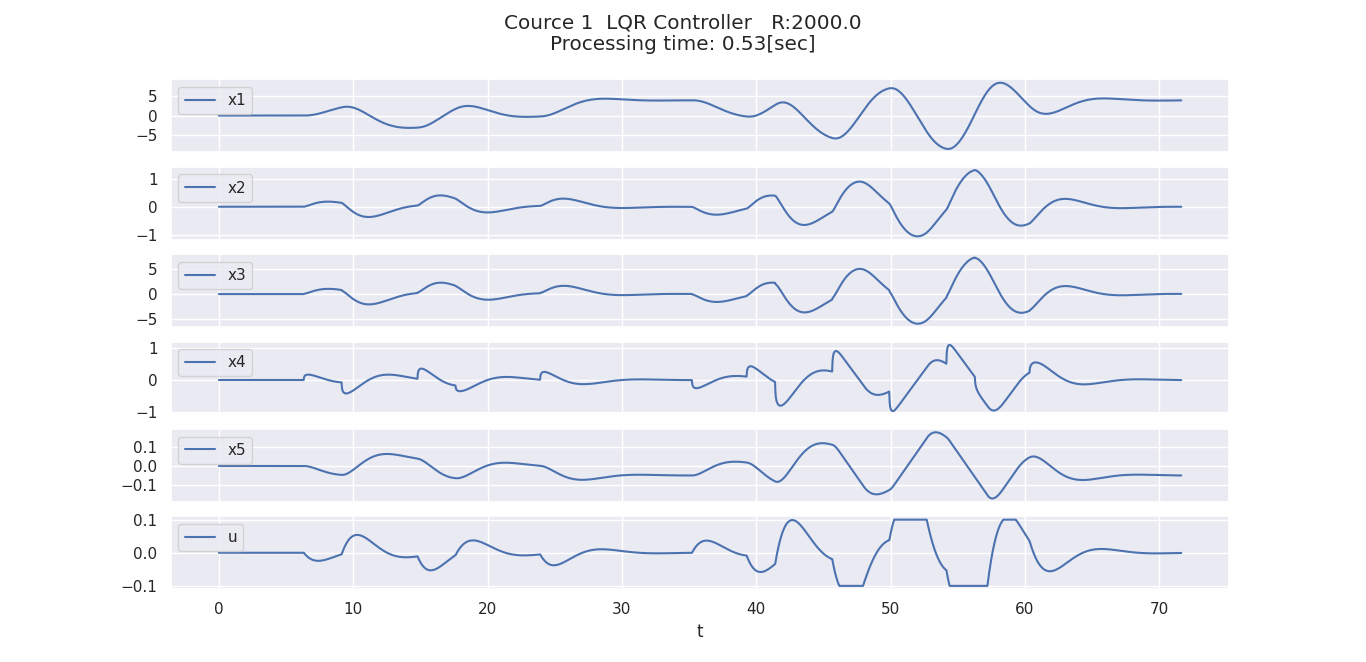
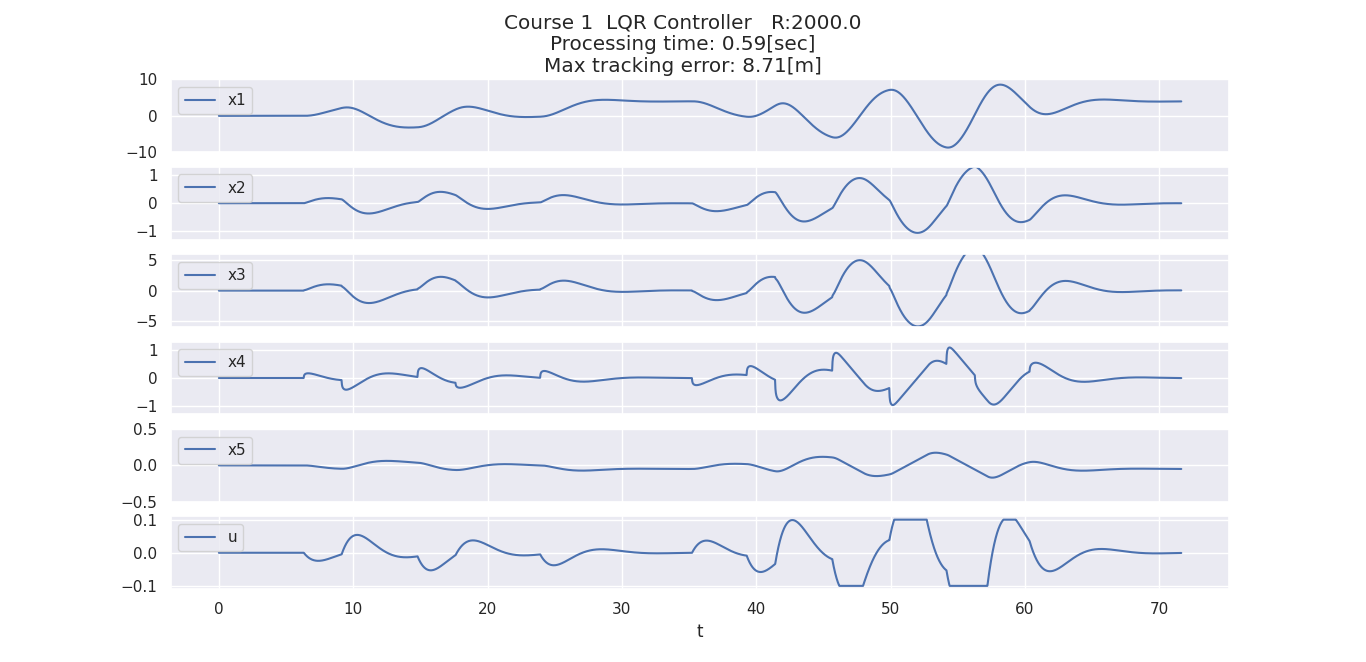
fix png

diff --git a/viecle/main_lqr.py b/viecle/main_lqr.py
@@ -25,7 +25,7 @@ def main():
     Kr = 10000
     umax = 0.1
 
-    course = 2
+    course = 1
     curvature_map = map_creator(course)
 
     a11 = 2*(Kf + Kr)/M
@@ -65,7 +65,7 @@ def main():
     ### cost function setup
     # lqr
     Q = np.diag([1, 0.01, 0.01, 0.01, 0.01])
-    R = 5000.0
+    R = 2000.0
     # feedback gain by lqr
     K, P, e = lqr(A, B, Q, R)
 
